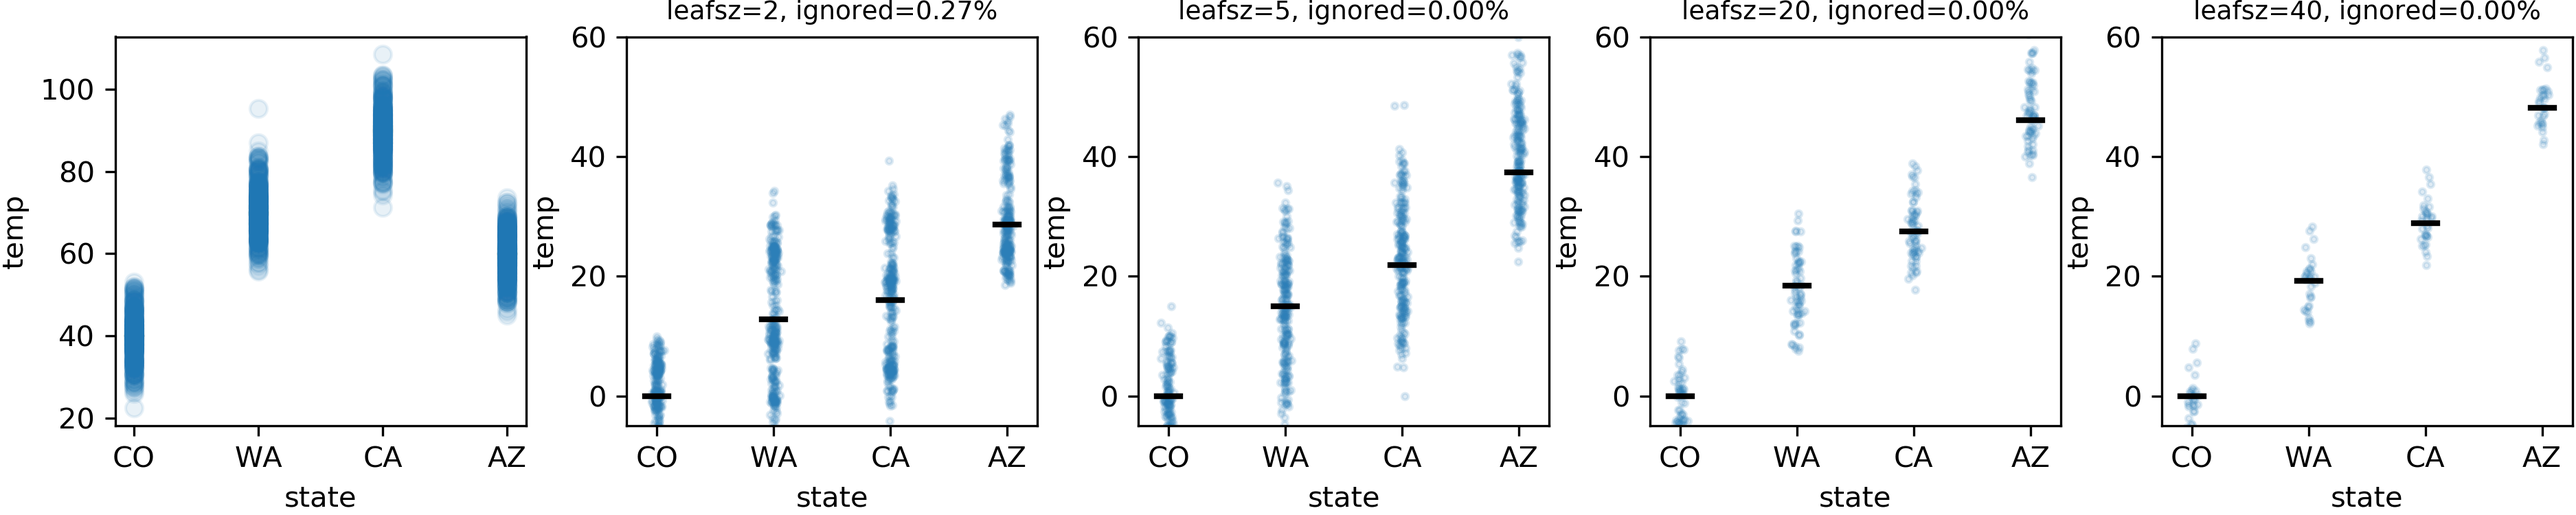
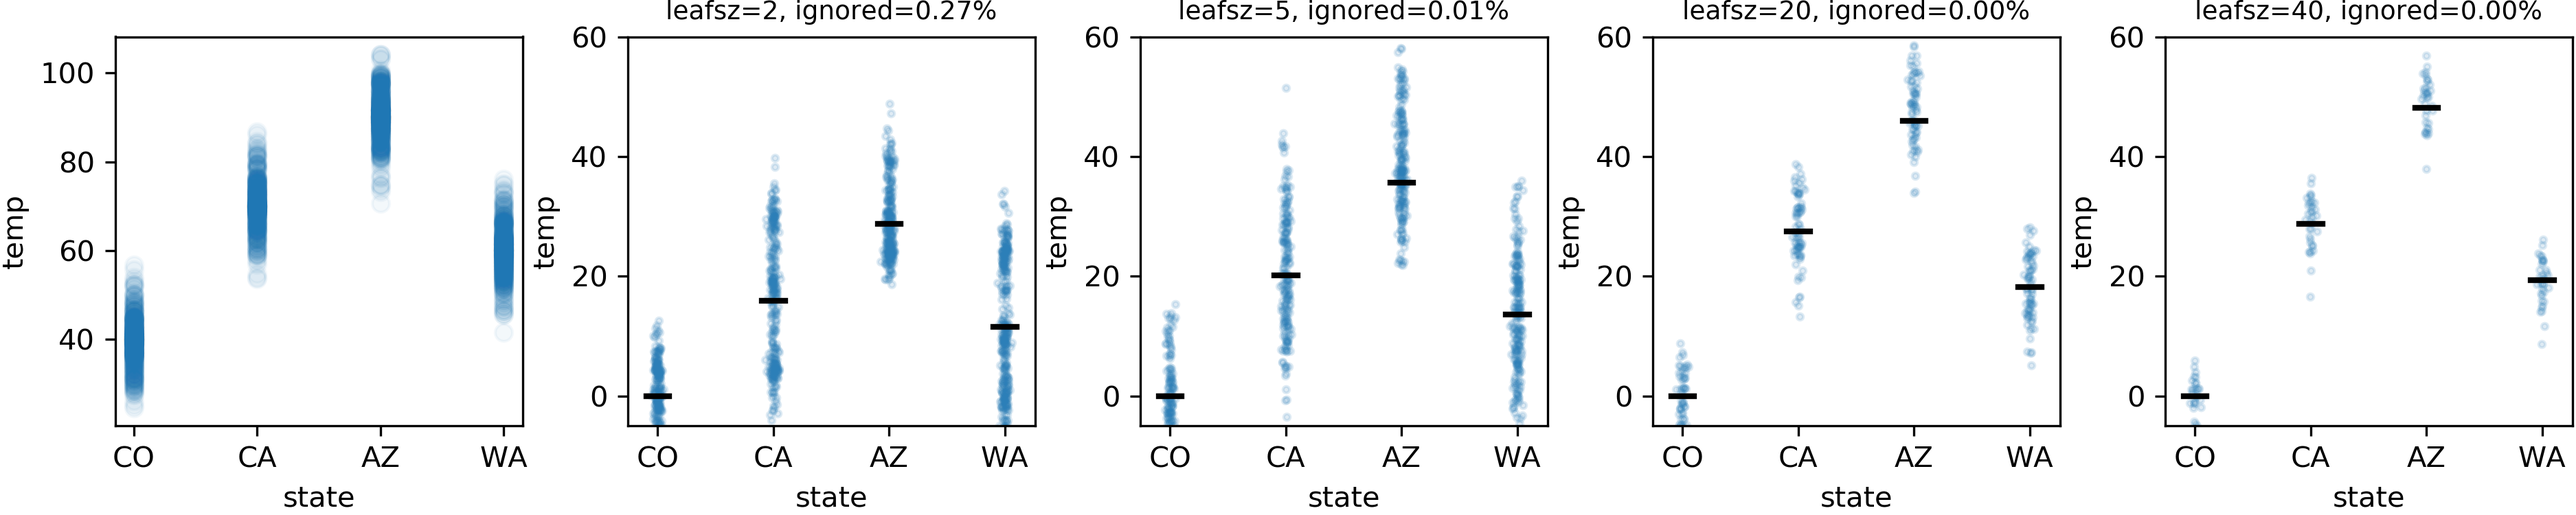
fix marginal plots for cats

diff --git a/stratx/partdep.py b/stratx/partdep.py
@@ -614,22 +614,11 @@ def plot_stratpd_gridsearch(X, y, colname, targetname,
             row += 1
 
 
-def marginal_plot_(X, y, colname, targetname, ax, alpha=.1, show_regr_line=True, sort='ascending'):
-    if sort=='ascending':
-        sort_indexes = y.argsort()
-        sorted_ys = y.values[sort_indexes]
-        cats = X[colname].values[sort_indexes]
-    else:
-        cats = X[colname].values
-        sorted_ys = y
-
-    ax.scatter(cats, sorted_ys, alpha=alpha, label=None)
+def marginal_plot_(X, y, colname, targetname, ax, alpha=.1, show_regr_line=True):
+    ax.scatter(X[colname], y, alpha=alpha, label=None)
     ax.set_xlabel(colname)
     ax.set_ylabel(targetname)
     col = X[colname]
-
-    # ax.set_xticks(cats)
-    # ax.set_xticklabels(catnames_)
 
     if show_regr_line:
         r = LinearRegression()
@@ -640,15 +629,29 @@ def marginal_plot_(X, y, colname, targetname, ax, alpha=.1, show_regr_line=True,
         ax.text(min(xcol) * 1.02, max(y) * .95, f"$\\beta_{{{colname}}}$={r.coef_[0]:.3f}")
 
 
+def marginal_catplot_(X, y, colname, targetname, ax, catnames, alpha=.1):
+    catcodes, catnames_, catcode2name = getcats(X, colname, catnames)
+
+    ax.scatter(X[colname].values, y.values, alpha=alpha, label=None)
+    ax.set_xlabel(colname)
+    ax.set_ylabel(targetname)
+    # col = X[colname]
+    # cats = np.unique(col)
+
+    ax.set_xticks(catcodes)
+    ax.set_xticklabels(catnames_)
+
+
 def plot_catstratpd_gridsearch(X, y, colname, targetname,
                                min_samples_leaf_values=(2, 5, 10, 20, 30),
                                catnames=None,
-                               yrange=None,
-                               show_regr_line=False,
-                               sort='ascending'):
+                               yrange=None):
     ncols = len(min_samples_leaf_values)
     fig, axes = plt.subplots(1, ncols + 1,
                              figsize=((ncols + 1) * 2.5, 2.5))
+
+    marginal_catplot_(X, y, colname, targetname, catnames=catnames, ax=axes[0], alpha=0.05)
+
     col = 1
     for msl in min_samples_leaf_values:
         print(f"---------- min_samples_leaf={msl} ----------- ")
@@ -661,18 +664,13 @@ def plot_catstratpd_gridsearch(X, y, colname, targetname,
                                 catnames=catnames,
                                 yrange=yrange,
                                 ntrees=1,
-                                sort=sort,
-                                show_xticks=True)
-            print(catcodes_)
-            print(catnames_)
+                                show_xticks=True,
+                                sort=False)
         except ValueError:
             axes[col].set_title(f"Can't gen: leafsz={msl}", fontsize=8)
         else:
             axes[col].set_title(f"leafsz={msl}, ignored={ignored / len(X):.2f}%", fontsize=9)
         col += 1
-
-    marginal_plot_(X, y, colname, targetname, ax=axes[0],
-                   show_regr_line=show_regr_line, sort=sort)
 
 
 def catwise_leaves(rf, X, y, colname, verbose):
@@ -737,12 +735,12 @@ def catwise_leaves(rf, X, y, colname, verbose):
 
 # only works for ints, not floats
 def plot_catstratpd(X, y,
-                    colname,       # X[colname] expected to be numeric codes
+                    colname,  # X[colname] expected to be numeric codes
                     targetname,
-                    catnames=None, # map of catcodes to catnames; converted to map if sequence passed
-                                   # must pass dict or series if catcodes are not 1..n contiguous
-                                   # None implies use np.unique(X[colname]) values
-                                   # Must be 0-indexed list of names if list
+                    catnames=None,  # map of catcodes to catnames; converted to map if sequence passed
+                    # must pass dict or series if catcodes are not 1..n contiguous
+                    # None implies use np.unique(X[colname]) values
+                    # Must be 0-indexed list of names if list
                     ax=None,
                     sort='ascending',
                     ntrees=1,
@@ -783,32 +781,7 @@ def plot_catstratpd(X, y,
                                    oob_score=False)
         rf.fit(X_synth.drop(colname,axis=1), y_synth)
 
-    if catnames is None or isinstance(catnames, pd.Series):
-        catcodes = np.unique(X[colname])
-        catnames = [None] * (max(catcodes) + 1)
-        for c in catcodes:
-            catnames[c] = c
-        catnames = np.array(catnames)
-    elif isinstance(catnames, dict):
-        catnames_ = [None] * (max(catnames.keys()) + 1)
-        catcodes = []
-        for code,name in catnames.items():
-            catcodes.append(code)
-            catnames_[code] = name
-        catcodes = np.array(catcodes)
-        catnames = np.array(catnames_)
-    elif not isinstance(catnames, dict):
-        # must be a list of names then
-        catcodes = []
-        catnames_ = [None] * len(catnames)
-        for cat,c in enumerate(catnames):
-            if c is not None:
-                catcodes.append(cat)
-            catnames_[cat] = c
-        catcodes = np.array(catcodes)
-        catnames = np.array(catnames_)
-    else:
-        raise ValueError("catnames must be None, 0-indexed list, or pd.Series")
+    catcodes, _, catcode2name = getcats(X, colname, catnames)
 
     # rf = RandomForestRegressor(n_estimators=ntrees, min_samples_leaf=min_samples_leaf, oob_score=True)
     rf.fit(X.drop(colname, axis=1), y)
@@ -864,7 +837,7 @@ def plot_catstratpd(X, y,
     else:
         x_noise = np.zeros(shape=(nleaves,))
     for cat in sorted_catcodes:
-        if catnames[cat] is None: continue
+        if catcode2name[cat] is None: continue
         ax.scatter(x_noise + xloc, leaf_histos.iloc[cat] - min_avg_value,
                    alpha=alpha, marker='o', s=marker_size,
                    c=color)
@@ -877,7 +850,7 @@ def plot_catstratpd(X, y,
 
     ax.set_xticks(range(0, ncats))
     if show_xticks: # sometimes too many
-        ax.set_xticklabels(catnames[sorted_catcodes])
+        ax.set_xticklabels(catcode2name[sorted_catcodes])
     else:
         ax.set_xticklabels([])
         ax.tick_params(axis='x', which='both', bottom=False)
@@ -893,7 +866,42 @@ def plot_catstratpd(X, y,
         ax.set_ylim(*yrange)
 
     ycats = avg_per_cat[sorted_catcodes] - min_avg_value
-    return catcodes, catnames[sorted_catcodes], ycats, ignored
+    return catcodes, catcode2name[sorted_catcodes], ycats, ignored
+
+
+def getcats(X, colname, incoming_cats):
+    if incoming_cats is None or isinstance(incoming_cats, pd.Series):
+        catcodes = np.unique(X[colname])
+        catcode2name = [None] * (max(catcodes) + 1)
+        for c in catcodes:
+            catcode2name[c] = c
+        catcode2name = np.array(catcode2name)
+        catnames = catcodes
+    elif isinstance(incoming_cats, dict):
+        catnames_ = [None] * (max(incoming_cats.keys()) + 1)
+        catcodes = []
+        catnames = []
+        for code, name in incoming_cats.items():
+            catcodes.append(code)
+            catnames.append(name)
+            catnames_[code] = name
+        catcodes = np.array(catcodes)
+        catnames = np.array(catnames)
+        catcode2name = np.array(catnames_)
+    elif not isinstance(incoming_cats, dict):
+        # must be a list of names then
+        catcodes = []
+        catnames_ = [None] * len(incoming_cats)
+        for cat, c in enumerate(incoming_cats):
+            if c is not None:
+                catcodes.append(cat)
+            catnames_[cat] = c
+        catcodes = np.array(catcodes)
+        catcode2name = np.array(catnames_)
+        catnames = np.array(incoming_cats)
+    else:
+        raise ValueError("catnames must be None, 0-indexed list, or pd.Series")
+    return catcodes, catnames, catcode2name
 
 
 # -------------- B I N N I N G ---------------

diff --git a/articles/regr/genfigs.py b/articles/regr/genfigs.py
@@ -62,8 +62,8 @@ def savefig(filename, pad=0):
     # plt.savefig(f"images/{filename}.pdf")
     plt.savefig(f"images/{filename}.png", dpi=300)
 
-    # plt.tight_layout()
-    # plt.show()
+    plt.tight_layout()
+    plt.show()
 
     plt.close()
 
@@ -791,7 +791,8 @@ def meta_weather():
                             min_samples_leaf_values=[2,5,10,20,30],
                             nbins_values=[1,2],
                             yrange=(-10,10),
-                            isdiscrete=True)
+                            isdiscrete=True,
+                            alpha=.15)
     savefig(f"dayofyear_temp_meta")
 
 
@@ -828,7 +829,7 @@ def weight():
     plot_catstratpd(X, y, 'sex', 'weight', ax=ax,
                     min_samples_leaf=50,
                     alpha=.2,
-                    catnames={1:'F', 2:'M'},
+                    catnames={1: 'F', 2: 'M'},
                     yrange=(0, 5),
                     use_weighted_avg=True
                     )
@@ -1608,7 +1609,7 @@ if __name__ == '__main__':
     # multi_joint_distr()
     # bulldozer()
     # rent()
-    rent_grid()
+    # rent_grid()
     # rent_ntrees()
     # rent_extra_cols()
     # unsup_rent()
@@ -1618,7 +1619,7 @@ if __name__ == '__main__':
     # unsup_weight()
     # meta_weight()
     # weather()
-    # meta_weather()
+    meta_weather()
     # additivity()
     # meta_additivity()
     # bigX()
